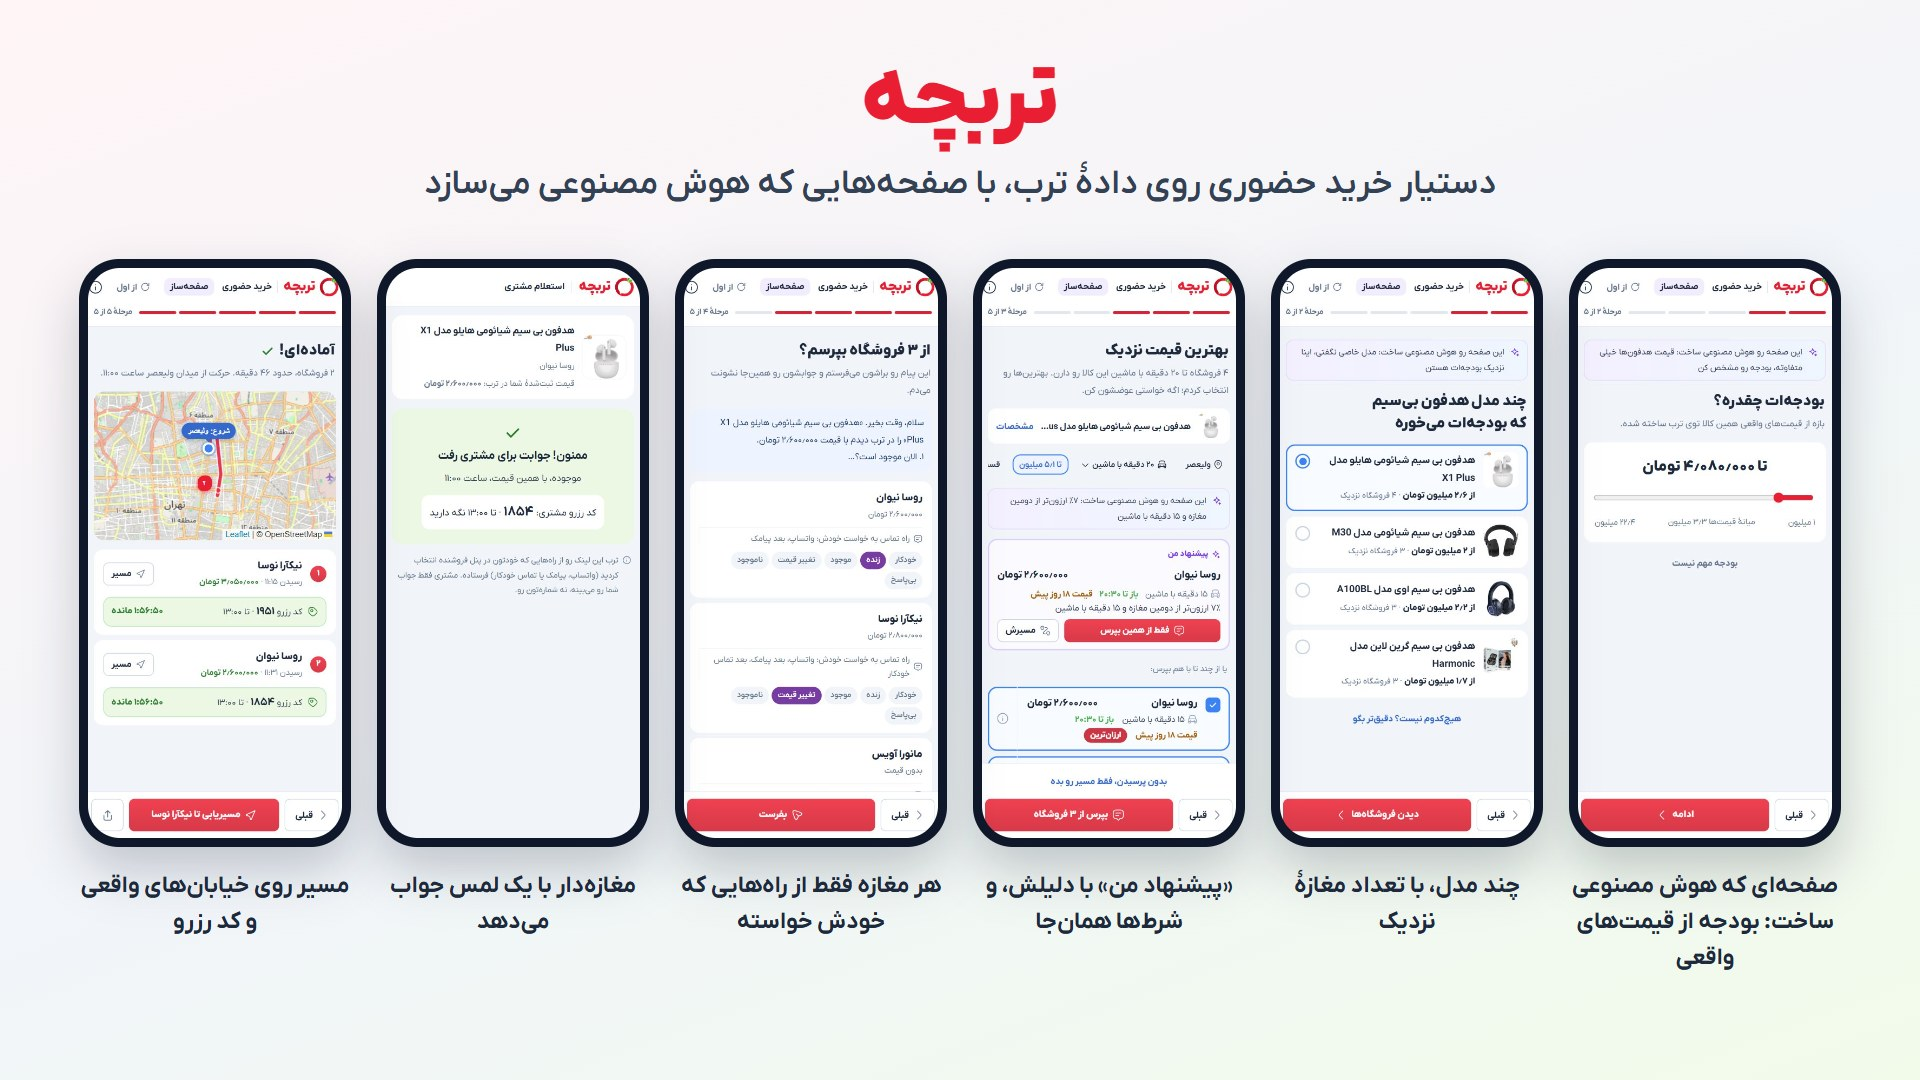
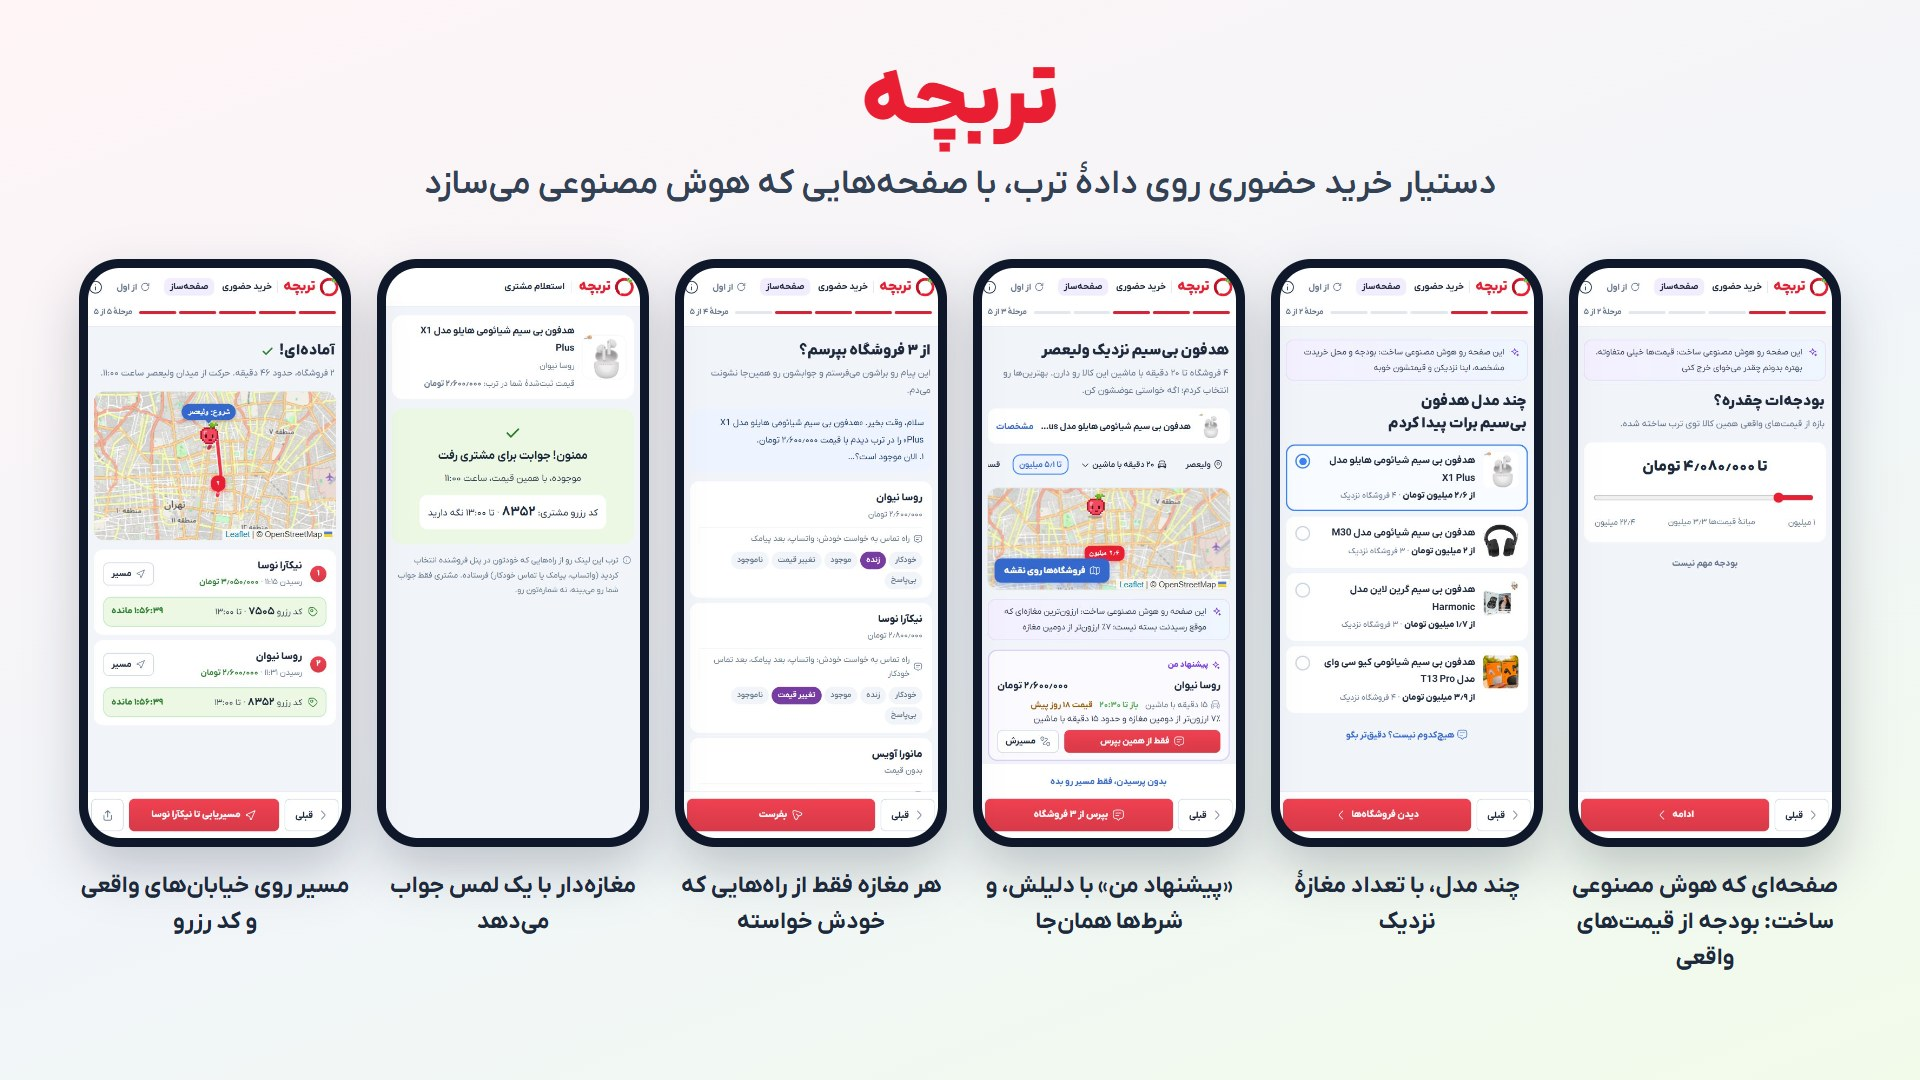
ویدیوی دمو با نقشهٔ تازهٔ فروشگاهها و تربچهٔ پیکسلی (۴:۰۳)
- یک جملهٔ تازه در صحنهٔ فروشگاهها: نقشه باز میشود، هر مغازه فقط قیمتش، کاربر تربچهٔ پرنده
- اسکرولِ صحنه از نوارِ نقشه رد میشود تا کارتها دیده شوند
- تصویرهای README از همین ضبطِ تازه

diff --git a/README.md b/README.md
@@ -81,7 +81,7 @@
 | نیاز (از ویدیوی چالش) | راهحل در تربچه |
 |---|---|
 | کاربر مدل مناسب را نمیداند | صفحهساز اول جستجو میکند و صفحهٔ بعد را از دادهٔ واقعی میسازد: گزینههای برند و نوع کاربری، اسلایدر بودجه از قیمتهای واقعی همان کالا، یا مقایسهٔ کوتاه که فقط سطرهای متفاوت را دارد و اول همان چیزی را میآورد که کاربر گفته (مثلاً دوربین). بعد ۲ تا ۴ کالا با تعداد فروشگاه نزدیک. |
-| فروشگاههای نزدیک | اول میپرسد چطور میروید (پیاده، ماشین شخصی، مترو و اتوبوس) و محدوده را با **زمان رسیدن** میگیرد («تا ۲۰ دقیقه»)، نه کیلومتر (کیلومتر در تنظیمات هست). زمان ماشین به ساعت روز و طول مسیر بستگی دارد و برای مقصد داخل طرح ترافیک هشدار میدهد. محلههای آماده یا GPS، نقشه با برچسب قیمت. |
+| فروشگاههای نزدیک | اول میپرسد چطور میروید (پیاده، ماشین شخصی، مترو و اتوبوس) و محدوده را با **زمان رسیدن** میگیرد («تا ۲۰ دقیقه»)، نه کیلومتر (کیلومتر در تنظیمات هست). زمان ماشین به ساعت روز و طول مسیر بستگی دارد و برای مقصد داخل طرح ترافیک هشدار میدهد. محلههای آماده یا GPS. بالای فهرست همیشه یک نقشه هست که هر مغازه را فقط با قیمتش نشان میدهد (برچسبهایی که روی هم میافتند تا زوم نزدیکتر صبر میکنند) و خود شما یک تربچهٔ پیکسلی هستید که سر جایتان بالا و پایین میپرد. |
 | مقایسهٔ قیمت، فاصله، ساعت کاری | «هزینهٔ کل» هر گزینه = قیمت + ارزش زمان رفتوآمد (هر دقیقه ۸٬۰۰۰ تومان) + جریمهٔ عدم قطعیت (ساعت نامعلوم، قیمت قدیمی). فروشگاه دورتر فقط وقتی بالاتر میآید که اختلاف قیمتش زمان اضافه را بیارزد، و دلیلش روی کارت نوشته میشود. سه حالت مرتبسازی. |
 | قیمت ثبتشده قدیمی است | روی ردیف هر فروشگاه «قیمت N روز پیش» (قیمتهای قدیمی نارنجی)، و در جزئیات برچسب تازگی (اخیر / ممکن است تغییر کرده باشد / قدیمی) با تاریخ شمسی آخرین تغییر؛ «موجودی تأیید نشده» تا وقتی استعلام نشده؛ قیمت تأییدشده همیشه جدا نمایش داده میشود. |
 | فروشنده جواب نمیدهد یا مغازه بسته است | برای هر فروشگاه بسته «جایگزین باز» نزدیک همان فروشگاه (حتی در همان پاساژ)؛ بعد از استعلام، جایگزینهای آماده برای فروشگاههای ناموفق، کالای مشابه نزدیک، و فروشگاههایی که «شاید داشته باشند». |
